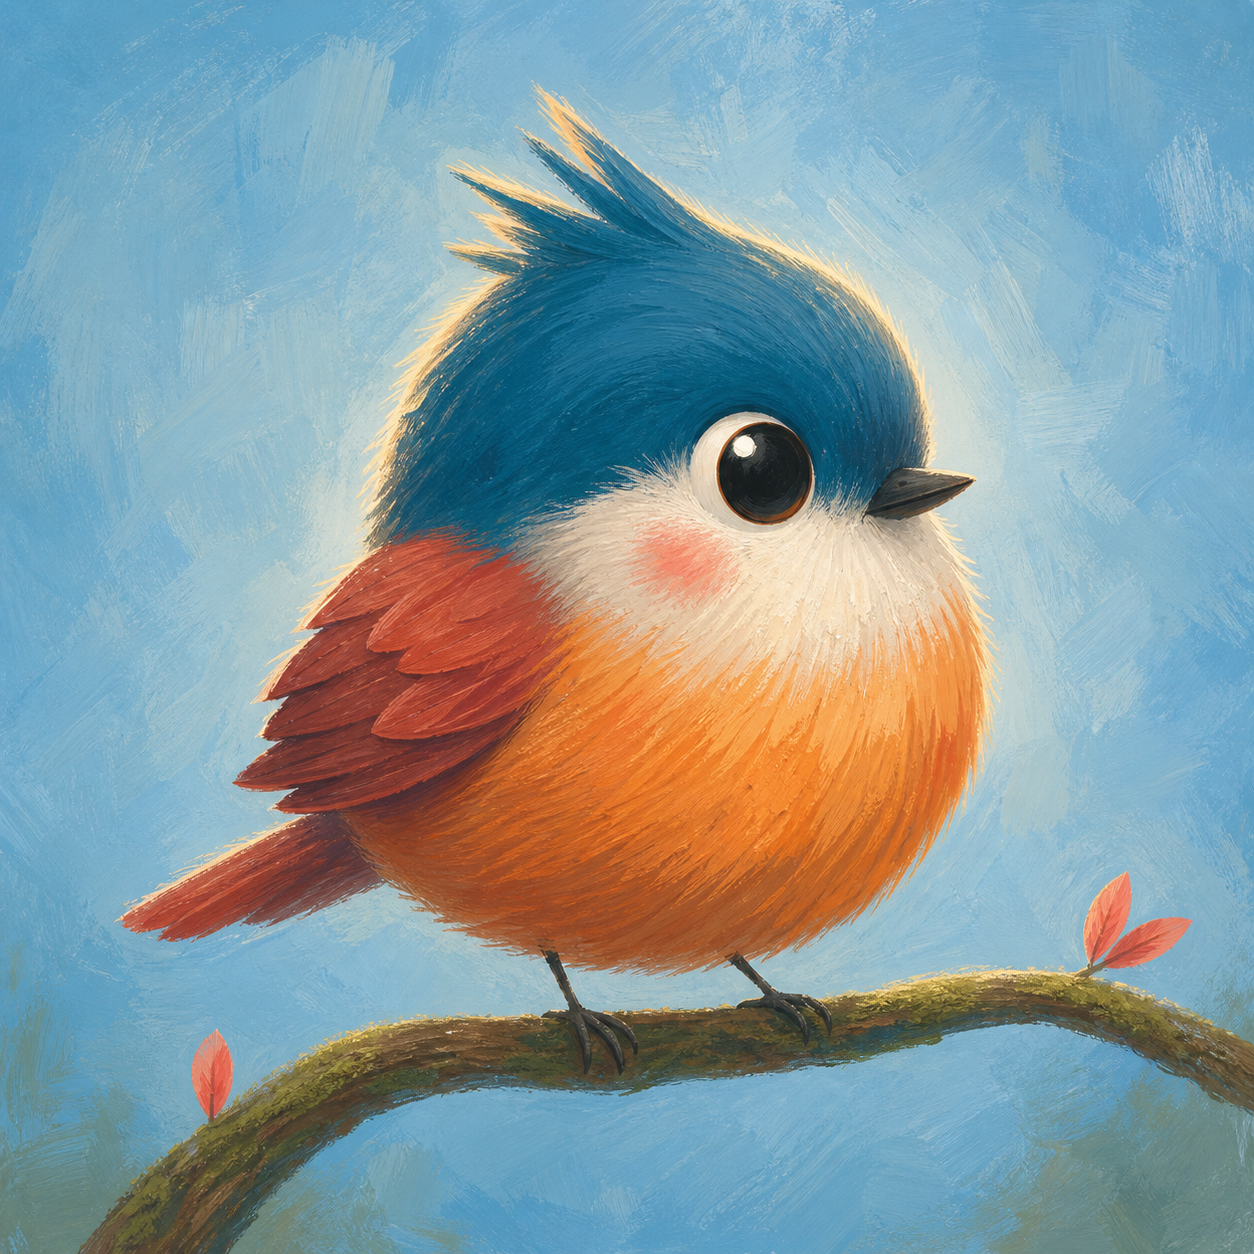
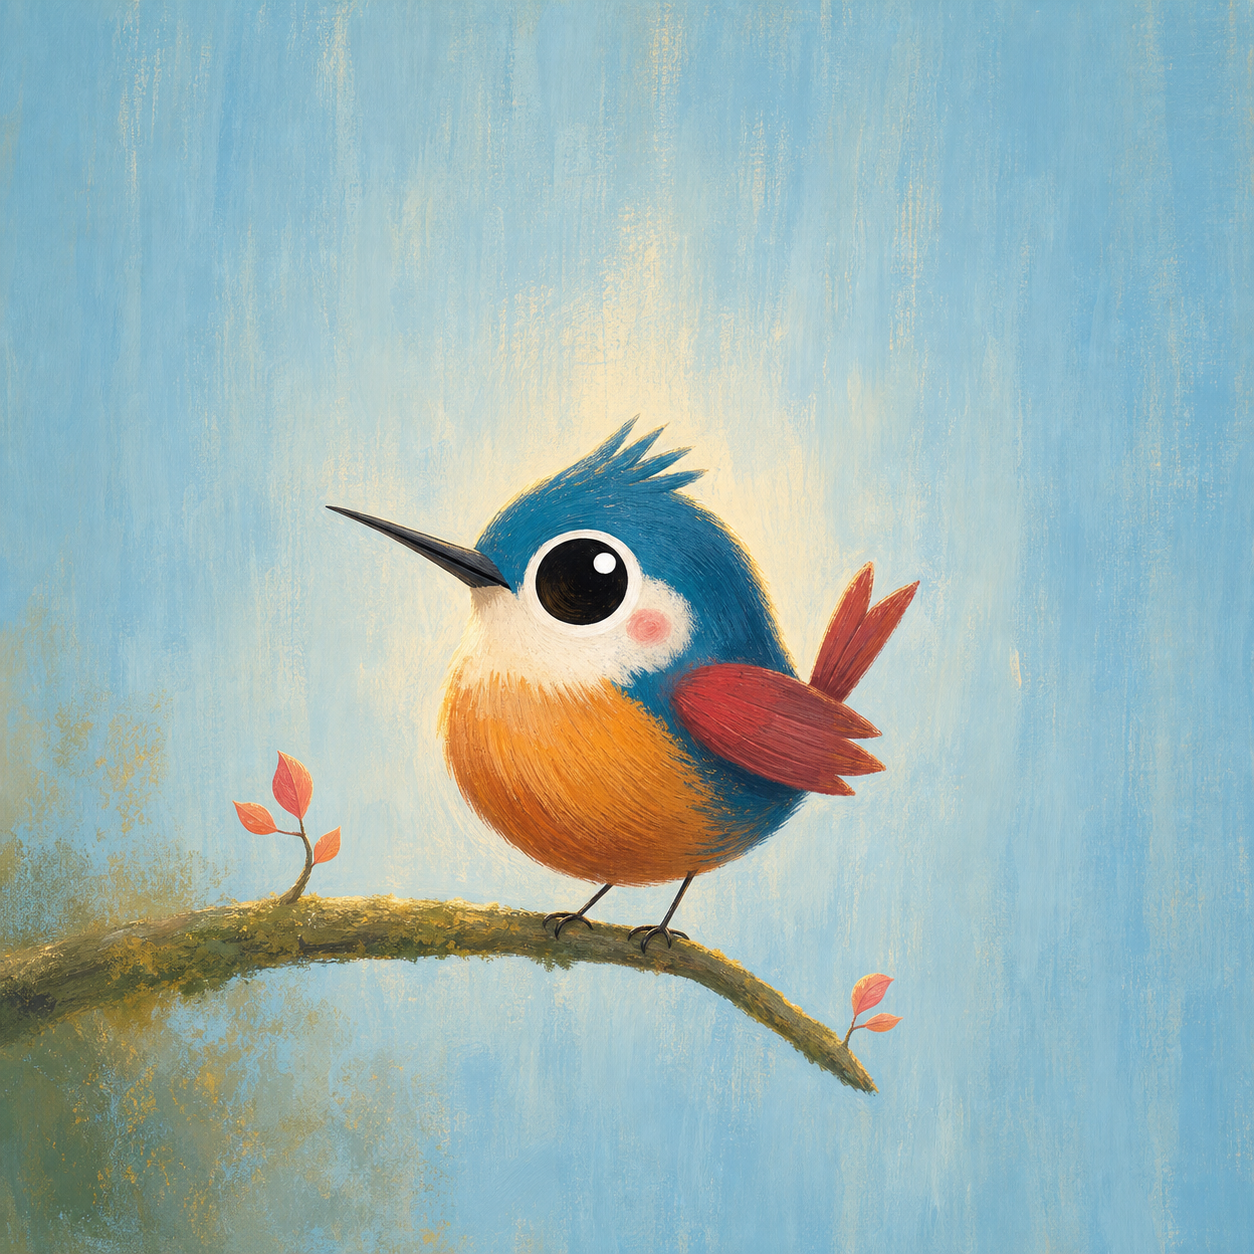
Style 17 聚光水粉立绘 v2 定稿:五轮并排对照四张标杆,配方修正三处
- 头发改写为羽化发簇措辞(同时禁尖刺动漫发/卷花菜团,两个反向坑)
- 眼睛写死 visible white sclera(成人角色否则出无眼白黑豆眼)
- 背景加 muted/calm + NOT fiery over-saturated(压住火焰橙底)
示例图换成终版四张(男孩/大叔/老爷爷/小鸟,并排评分94-96)。

diff --git a/STYLES.md b/STYLES.md
@@ -393,15 +393,15 @@ RENDER: high-end CGI quality, clean, minimalist, playful deadpan charm.
 
 > 纯风格。比例:不传则不注入。占位符 `【主体】【背景色】【构图】【文字】` 自动推断:【背景色】按互补规则自动选——主体/服装偏蓝青就配 "warm amber-orange"(可用 "warm pale-amber" 减浓),主体偏暖橙就配 "soft sky-blue";同组图两种底色可混用(标杆组即两橙两蓝);【构图】默认 "waist-up centered portrait facing the viewer"(全身立绘/动物按需改写);【文字】默认 "No text anywhere."。
 >
-> 出身:Midjourney --sref 2344047981 的 gpt-image 复刻(2026-07-16 四张标杆图三轮对照定稿:惊讶男孩/呆脸大叔/圆胖小鸟三种主体 × 橙/蓝两种底色全部验证)。本质是"数码水粉动画概念立绘":满幅单色刷底 + 人物身后聚光晕 + 夸张比例大眼角色 + 软喷绘脸×干扫笔触,高级绘本 × 动画电影 vis-dev 气质。适合角色立绘、角色系列(跨张统一底色即成套)、i2v 动画锚图。
-> 命门(三轮翻车教训,全部写死):**①背景笔触密度是走钢丝**——写重了(heavy mottling)出深色油画斑驳底(首轮翻车),写平了(mostly flat)出数字平涂(次轮小鸟翻车);唯一验证通过的表述是 "clearly visible loose scumbled dry-brush strokes + gentle tonal variation + low contrast + matte";**②皮肤禁纹理**——脸和皮肤必须 airbrushed smooth 干净渐变,可见笔触只留在头发/皮毛/羽毛/衣服/背景;**③头发写圆团**——"big soft rounded masses + directional feathered strokes",不写死就出尖刺动漫发丝(首轮翻车);**④身份特征=满幅涂满+聚光晕**——单色刷底涂满到边、人物身后一圈更亮的柔光,四边绝不露白纸;**⑤互补色排布**——全画只有一对互补色:蓝青主体×暖橙底,或暖橙主体×蓝底。
+> 出身:Midjourney --sref 2344047981 的 gpt-image 复刻(2026-07-16 四张标杆图五轮逐张并排对照定稿:惊讶男孩/呆脸大叔/戴镜老爷爷/圆胖小鸟四种主体 × 橙/蓝两种底色全部验证,终版四张与标杆并排评分 94–96)。本质是"数码水粉动画概念立绘":满幅单色刷底 + 人物身后聚光晕 + 夸张比例大眼角色 + 软喷绘脸×干扫笔触,高级绘本 × 动画电影 vis-dev 气质。适合角色立绘、角色系列(跨张统一底色即成套)、i2v 动画锚图。
+> 命门(五轮翻车教训,全部写死):**①背景笔触是三向走钢丝**——写重了(heavy mottling)出深色油画斑驳底(首轮翻车),写平了(mostly flat)出数字平涂(次轮小鸟翻车),不压饱和就出火焰橙底(四轮男孩偏差);唯一验证通过的表述是 "clearly visible loose scumbled dry-brush strokes + gentle tonal variation + matte and calm/muted + NOT fiery saturated";**②皮肤禁纹理**——脸和皮肤必须 airbrushed smooth 干净渐变,可见笔触只留在头发/皮毛/羽毛/衣服/背景;**③头发写羽化发簇**——"soft FEATHERED brush-stroke tufts, each tuft one wide soft feathered stroke",两个反向坑都要点名:写不够软出尖刺动漫发(首轮),只写 rounded masses 出卷花菜团(次轮),必须同时禁 "NOT razor-sharp anime spikes, NOT tight curly ringlets";**④眼睛要留眼白**——虹膜/瞳孔外必须写 visible white sclera,不写死成人角色会出无眼白的眯缝黑豆眼(三轮大叔翻车);**⑤身份特征=满幅涂满+聚光晕**——单色刷底涂满到边、人物身后一圈更亮的柔光,四边绝不露白纸;**⑥互补色排布**——全画只有一对互补色:蓝青主体×暖橙底,或暖橙主体×蓝底。
 > 和 [#13 暖光童画](#13-暖光童画动画概念暖绘)同源(都是 MJ sref 动画 vis-dev 水粉的复刻),区别:#13 是"未画完的概念稿"(白纸留边+粉蓝奶黄碎笔背景+童画大虹膜),#17 是"画满的聚光立绘"(单色满幅底+聚光晕+虹膜正常留眼白,角色从萌娃到大叔小鸟全适配)。
 > 模板为已验证英文原文,占位符也填英文,不要转译。
 
 ```
 Character concept art in a modern animated-feature visual-development style, painterly digital GOUACHE illustration — matte, opaque, simplified shapes with clearly visible brushwork.
 Subject: 【主体】, 【构图】.
-STYLE RECIPE (follow exactly): the whole image is built from CLEARLY VISIBLE soft brush strokes — every area shows the direction of the brush, like a hand-painted gouache concept painting, yet the values stay soft and low-contrast; BACKGROUND: one single 【背景色】 color field covering the whole canvas edge to edge, painted with clearly visible loose scumbled dry-brush strokes and gentle tonal variation (some patches slightly lighter, some slightly deeper), matte and calm — NOT heavy dark oil mottling, NOT flat digital fill; a noticeably lighter soft glow right behind the character like a soft spotlight; fully abstract with no scenery, no white paper border; FACE & SKIN: soft smooth airbrushed volume with clean gradients, NO canvas texture on the skin, warm rosy flush on cheeks, nose and ears; EYES: oversized round expressive eyes with bright white highlight dots, bold painterly eyebrows; exaggerated caricature proportions; HAIR / FUR / FEATHERS: painted as big soft rounded masses covered in visible directional feathered dry-brush strokes (NOT sharp spiky anime strands), warm rim light glowing on the edges; CLOTHING: big simplified color blocks with visible dry-brush strokes and slightly rough painterly edges, minimal detail; PALETTE: one complementary pair only — teal/denim blue against warm orange-amber — soft cinematic lighting, storybook charm, premium animated-film character concept art quality.
+STYLE RECIPE (follow exactly): the whole image is built from CLEARLY VISIBLE soft brush strokes — every area shows the direction of the brush, like a hand-painted gouache concept painting, yet the values stay soft and low-contrast; BACKGROUND (keep it CALM): one single soft MUTED 【背景色】 color field covering the whole canvas edge to edge, painted with clearly visible but GENTLE loose scumbled dry-brush strokes and subtle tonal variation (some patches slightly lighter, some slightly deeper), matte and calm — NOT fiery over-saturated color, NOT heavy dark oil mottling, NOT flat digital fill; a noticeably lighter soft glow right behind the character like a soft spotlight, fading calmly toward slightly deeper corners; fully abstract with no scenery, no white paper border; FACE & SKIN: soft smooth airbrushed volume with clean gradients, NO canvas texture on the skin, warm rosy flush on cheeks, nose and ears; EYES: oversized round expressive cartoon eyes with visible WHITE sclera around the irises and one bright white highlight dot each, bold painterly eyebrows; exaggerated caricature proportions; HAIR / FUR / FEATHERS: painted as soft FEATHERED brush-stroke tufts — each tuft is one wide soft feathered stroke, fluffy silhouette, warm rim light glowing on the edges, a few cool reflected-light strokes on the shadow side — NOT razor-sharp anime spikes, NOT tight curly ringlets; CLOTHING: big simplified color blocks with visible dry-brush strokes and slightly rough painterly edges, minimal detail; PALETTE: one complementary pair only — teal/denim blue against warm orange-amber — soft cinematic lighting, storybook charm, premium animated-film character concept art quality.
 【文字】
 ```
 